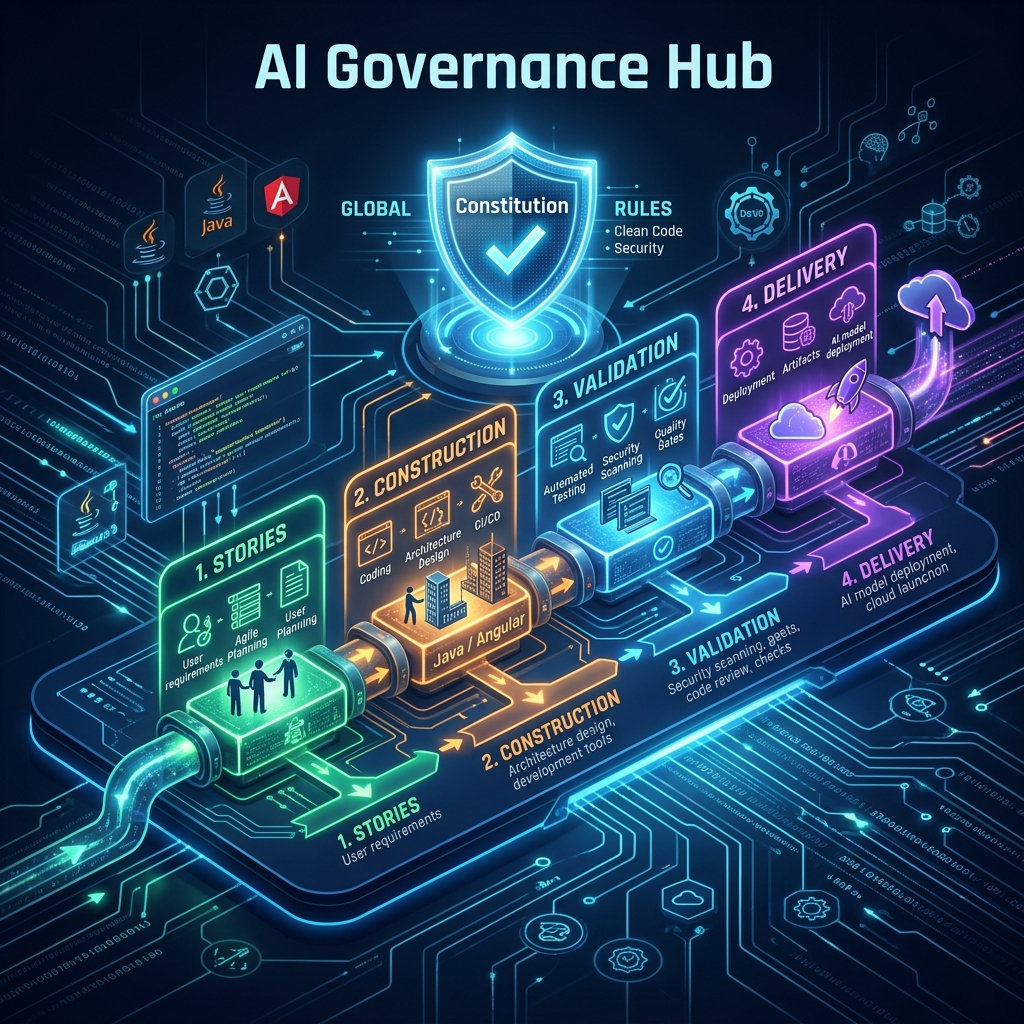
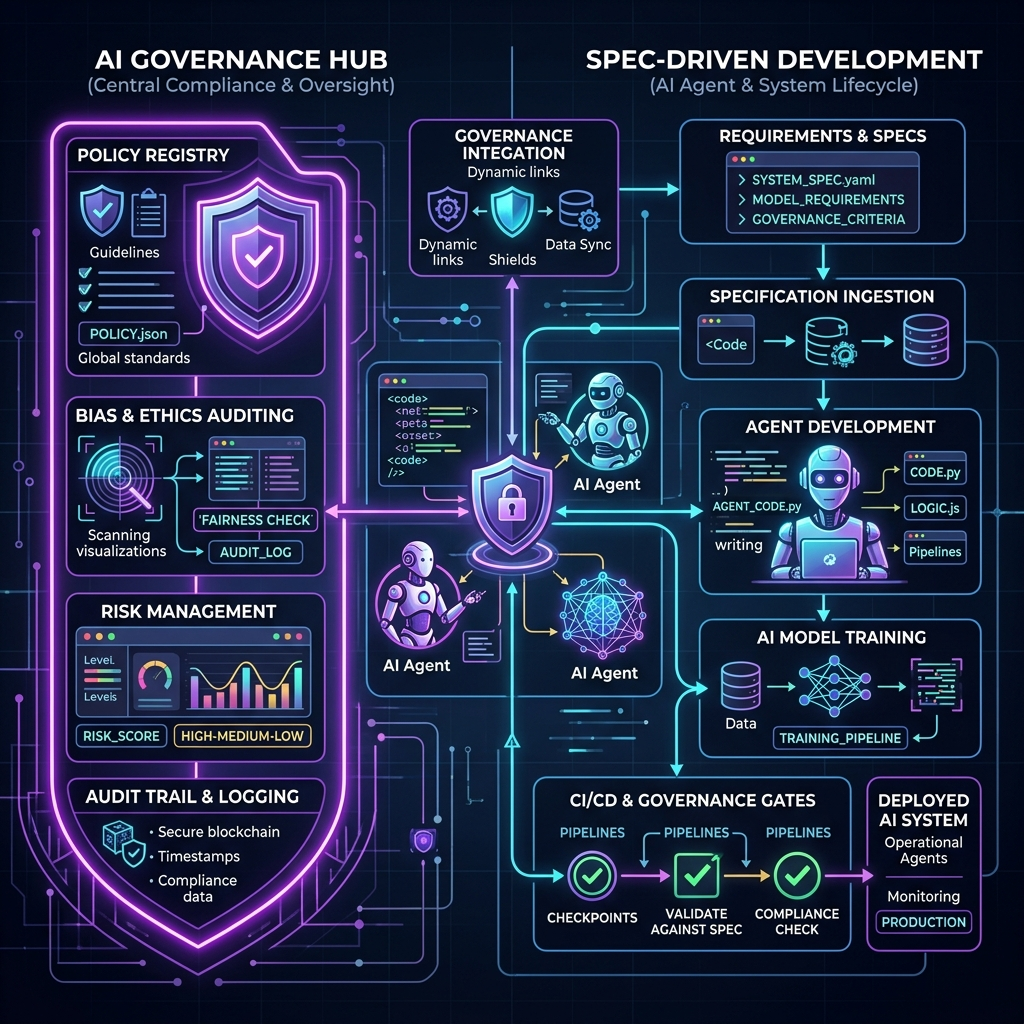
docs: restructure main README.md and update infographic with modern AI Engineering layout

diff --git a/README.md b/README.md
@@ -1,61 +1,101 @@
-# 🏗️ AI Governance Hub
+# 🏗️ AI Governance Hub & SDD Engines
+### *O Cérebro Operacional de Engenharia de Software Orientada por Inteligência Artificial*
 
 <p align="center">
-  <img src="./docs/assets/hub_ia_infographic.png" width="800" alt="AI Governance Hub - Arquitetura">
+  <img src="./docs/assets/hub_ia_infographic.png" width="850" alt="AI Governance Hub - Arquitetura de IA">
 </p>
 
-Bem-vindo ao **Cérebro Operacional** do nosso time. Este repositório é o centro de referência técnica para o uso estratégico de Inteligência Artificial no desenvolvimento de software de alta performance.
-
 ---
+
+## 🎯 Nossa Visão
+O **AI Governance Hub** é o ecossistema estratégico de Engenharia de IA projetado para elevar a qualidade, consistência e velocidade de entrega de software de alto nível. Unindo **Diretrizes de Governança Passiva** a **Motores de Execução Ativa**, capacitamos desenvolvedores a utilizarem assistentes inteligentes (como Cursor, Copilot, Antigravity) de forma integrada a padrões modernos de arquitetura, segurança (AppSec) e qualidade técnica.
 
 > [!IMPORTANT]
-> **Novo por aqui?** Confira o [**📖 Manual de Onboarding (Visual)**](docs/MANUAL_AI_GOVERNANCE_HUB.html) para aprender o protocolo de uso estratégico do Hub.
+> **Primeiros Passos:**
+> *   📖 **[Manual de Onboarding Visual](./docs/MANUAL_AI_GOVERNANCE_HUB.html)** — Aprenda a dinâmica e protocolo do Hub.
+> *   🚀 **[Guia de Conexão Rápida](./guia_conexao_github.md)** — Integre o seu microsserviço/projeto local ao Hub em apenas 2 segundos.
 
 ---
 
-## 🎯 Nossa Missão
+## 🧠 Metodologia: Spec-Driven Development (SDD)
+A engenharia de software no Hub segue o fluxo do **Spec-Driven Development (SDD)**. Em vez de codificar diretamente de forma ad-hoc, o desenvolvimento é guiado por especificações ("specs") e estruturado em um pipeline rigoroso orquestrado por IA:
 
-Capacitar desenvolvedores através de **Engenharia de Prompt**, facilitando a adoção de padrões modernos e garantindo a qualidade técnica em toda a nossa stack.
-
----
-
-## 🛠️ Pilares Tecnológicos
-
-Nossas diretrizes de IA estão otimizadas para:
-
-- **Java 21**: Uso de Records, Virtual Threads e sintaxe moderna.
-- **Arquitetura Hexagonal**: Separação clara entre Domínio, Aplicação e Adaptadores.
-- **Angular v18+**: Componentização reativa com **Signals** e Standalone Components.
-- **COBOL Moderna**: Padronização de sistemas legados, uso de templates via **Zowe** e integração com LLMs para manutenção e refatoração.
-
----
-
-## 🚀 Como Conectar seu Projeto?
-
-> Acesse o [**Guia de Conexão Completo (GitHub)**](guia_conexao_github.md) para conferir nossa solução de integração automática *One-Liner*. Em apenas 2 segundos seu projeto estará conectado e validado!
+```mermaid
+graph TD
+    A["📜 1. Constitution<br/>(Diretrizes & Padrões)"] --> B["🎯 2. Specify<br/>(User Stories & Critérios)"]
+    B --> C["📐 3. Plan<br/>(Especificação Técnica)"]
+    C --> D["📝 4. Tasks<br/>(Decomposição de Tarefas)"]
+    D --> E["💻 5. Implement<br/>(Codificação Assistida)"]
+    E --> F["✔️ 6. Validate<br/>(Quality Gates & Testes)"]
+    
+    style A fill:#4F46E5,stroke:#312E81,stroke-width:2px,color:#FFF
+    style B fill:#0D9488,stroke:#115E59,stroke-width:2px,color:#FFF
+    style C fill:#059669,stroke:#065F46,stroke-width:2px,color:#FFF
+    style D fill:#D97706,stroke:#92400E,stroke-width:2px,color:#FFF
+    style E fill:#DC2626,stroke:#991B1B,stroke-width:2px,color:#FFF
+    style F fill:#2563EB,stroke:#1E40AF,stroke-width:2px,color:#FFF
+```
 
 ---
 
+## 🔌 Motores de Execução: Os Plugins VS Code
+Este repositório serve como a base de distribuição e inteligência para as **extensões de chat e automação (SDD Engines)** que integram a IA diretamente ao ambiente do desenvolvedor.
+
+| Plugin / Engine | Foco Tecnológico | Principais Recursos | Comandos de Chat (`/`) |
+| :--- | :--- | :--- | :--- |
+| **`foursys-sdd-engine-java`** | **Backend Java & Spring** | Suporte a Java 21, Arquitetura Hexagonal, OpenFeign, RestClient, DLT/Retry em Kafka, MongoDB e testes unitários BDD. | `/foursys.constitution`<br/>`/foursys.specify`<br/>`/foursys.plan`<br/>`/foursys.tasks`<br/>`/foursys.implement` |
+| **`foursys-sdd-engine-angular`** | **Frontend Angular v18+** | Otimização para Standalone Components, reatividade via Signals, Forms dinâmicos e roteamento avançado. | `/foursys.constitution`<br/>`/foursys.specify`<br/>`/foursys.plan`<br/>`/foursys.tasks`<br/>`/foursys.implement` |
+| **`foursys-sdd-engine-hybrid`** | **Multi-Stack / Universal** | Detecção automática de tecnologia (Java, Angular, Node, COBOL) e integração com a ferramenta **Mend Advise** para AppSec. | `/foursys.selectStack`<br/>`/foursys.runMend` |
+| **`playbook-engine` (Agentes)** | **Orquestração de Fases** | Mapeamento dinâmico e execução do catálogo local de Playbooks através do assistente central. | `@agentes_foursys` +<br/>`/refinar`, `/desenhar`, `/desenvolver`, `/review_angular`, `/review_java`, `/teste_angular`, `/teste_java` |
+
 ---
 
-## 📂 Arquitetura do Repositório
+## 📂 Anatomia do Catálogo de Ativos (`/catalog`)
+O coração do Hub está em sua estrutura modular de ativos em [**`/catalog`**](./catalog), organizados para servir de contexto direto aos agentes de IA:
 
-O conteúdo está organizado dentro da pasta `/catalog`:
+### 1. 📜 [Diretrizes Globais (Constituição)](./catalog/instructions)
+Instruções que ditam as "regras de ouro" arquiteturais e de qualidade de código. Garantem conformidade imediata sem adivinhação:
+*   [**`HEXAGONAL_JAVA.md`**](./catalog/instructions/HEXAGONAL_JAVA.md): Padrão hexagonal estrito (Core isolado de frameworks, adapters bem definidos).
+*   [**`ANGULAR_FRONTEND.md`**](./catalog/instructions/ANGULAR_FRONTEND.md): Componentes reativos modernos baseados em Signals.
+*   [**`SECURITY_COMPLIANCE.md`**](./catalog/instructions/SECURITY_COMPLIANCE.md): Governança de AppSec, bloqueando vazamento de dados (LGPD) e vazamento de chaves.
+*   [**`SOLID_CLEAN_CODE.md`**](./catalog/instructions/SOLID_CLEAN_CODE.md) & [**`TESTING_PATTERNS.md`**](./catalog/instructions/TESTING_PATTERNS.md): Boas práticas e padrões para testes de alta cobertura.
 
-- [**`/agents_skills`**](./catalog/agents_skills): **System Prompts** configurados para transformar LLMs em personas especialistas.
-- [**`/instructions`**](./catalog/instructions): **Regras Globais** ("Constituição") que definem nossos padrões técnicos.
-- [**`/playbook`**](./catalog/playbook): Nossa esteira estratégica de desenvolvimento em 6 Fases (0 a 5).
+### 2. 👥 [Agentes Especialistas & Skills](./catalog/agents_skills)
+Configuração de personas e skills específicas para que as IAs atuem como seniores especialistas na stack ativa:
+*   **`#AGENTE_SPRING_FOURSYS.md`** (Java, APIs REST, Kafka, Mongo, JUnit)
+*   **`#AGENTE_ANGULAR_FOURSYS.md`** (Componentes Standalone, Signals, Routing)
+*   **`#AGENTE_COBOL_FOURSYS.md`** (Mainframe, modernização Batch/Online, engenharia reversa)
+*   **`#AGENTE_NEGOCIO_FOURSYS.md`** (Refinamento de requisitos e User Stories)
+
+### 3. 🏁 [A Esteira Estratégica (Playbooks de Fases)](./catalog/playbook)
+Passo a passo processual dividindo a entrega de código em 6 etapas claras:
+*   **Fase 0: Descoberta** — Diagramação e engenharia reversa.
+*   **Fase 1: Refinamento** — Criação de histórias técnicas consistentes.
+*   **Fase 2: Desenho Técnico** — Especificação arquitetural de endpoints e esquemas de dados.
+*   **Fase 3: Portões de Qualidade** — Execução de checklists de code review e validação hexagonal antes do merge.
+*   **Fase 4: Homologação** — Validação com foco no negócio e checklists de entrega.
+*   **Fase 5: Modernização Legada** — Documentação e modernização de programas COBOL.
 
 ---
 
-## 👥 Governança e Apoio
+## 🚀 Como Conectar seu Projeto em 2 Segundos?
+Para plugar os motores de IA deste Hub ao seu projeto atual, utilize o **Prompt de Conexão** no chat do seu assistente de IA (como Cursor, Antigravity ou Copilot):
 
-Este hub é mantido pela equipe para garantir a evolução contínua das nossas práticas.
+> *"Olá! Por favor, configure meu projeto local para usar o AI Governance Hub. 1. Sincronize os arquivos locais na pasta `agentes_foursys` de forma simplificada. 2. Crie o workflow de CI/CD para automação de sincronização. 3. Adicione o `.git/info/exclude` correspondente."*
 
-- **Focal Point Técnico:** Daniel
-- **Time Principal:** Regiane
+*(Para guias avançados, comandos de terminal ou conexão via scripts, consulte o [**Guia de Conexão Completo**](./guia_conexao_github.md)).*
+
+---
+
+## 📈 Benefícios da Governança de IA no Time
+*   🛡️ **Segurança em Primeiro Lugar**: Prevenção ativa contra vulnerabilidades (OWASP Top 10) e LGPD.
+*   ⚡ **Onboarding Acelerado**: Desenvolvedores recém-chegados começam a produzir no padrão corporativo no primeiro dia.
+*   📉 **Redução de Débito Técnico**: IAs são guiadas a gerar código limpo, impedindo soluções improvisadas fora dos padrões acordados.
+*   ⏳ **Time-to-Market Acelerado**: Menos tempo gasto desenhando infraestrutura comum, mais foco em regras e inteligência de negócio.
 
 ---
 > [!TIP]
-> *Um bom prompt economiza 80% do trabalho de refatoração. Use os Playbooks!*
+> *Dica de Produtividade: Sempre invoque os Agentes e Fases utilizando a notação de hashtag (ex: `#AGENTE_SPRING_FOURSYS.md` usando `#FASE3_VALIDACAO_HEXAGONAL.md`) para garantir que o contexto técnico de IA esteja 100% calibrado.*
 
+---
+© 2026 Foursys - Engenharia de Valor & Inteligência Artificial.